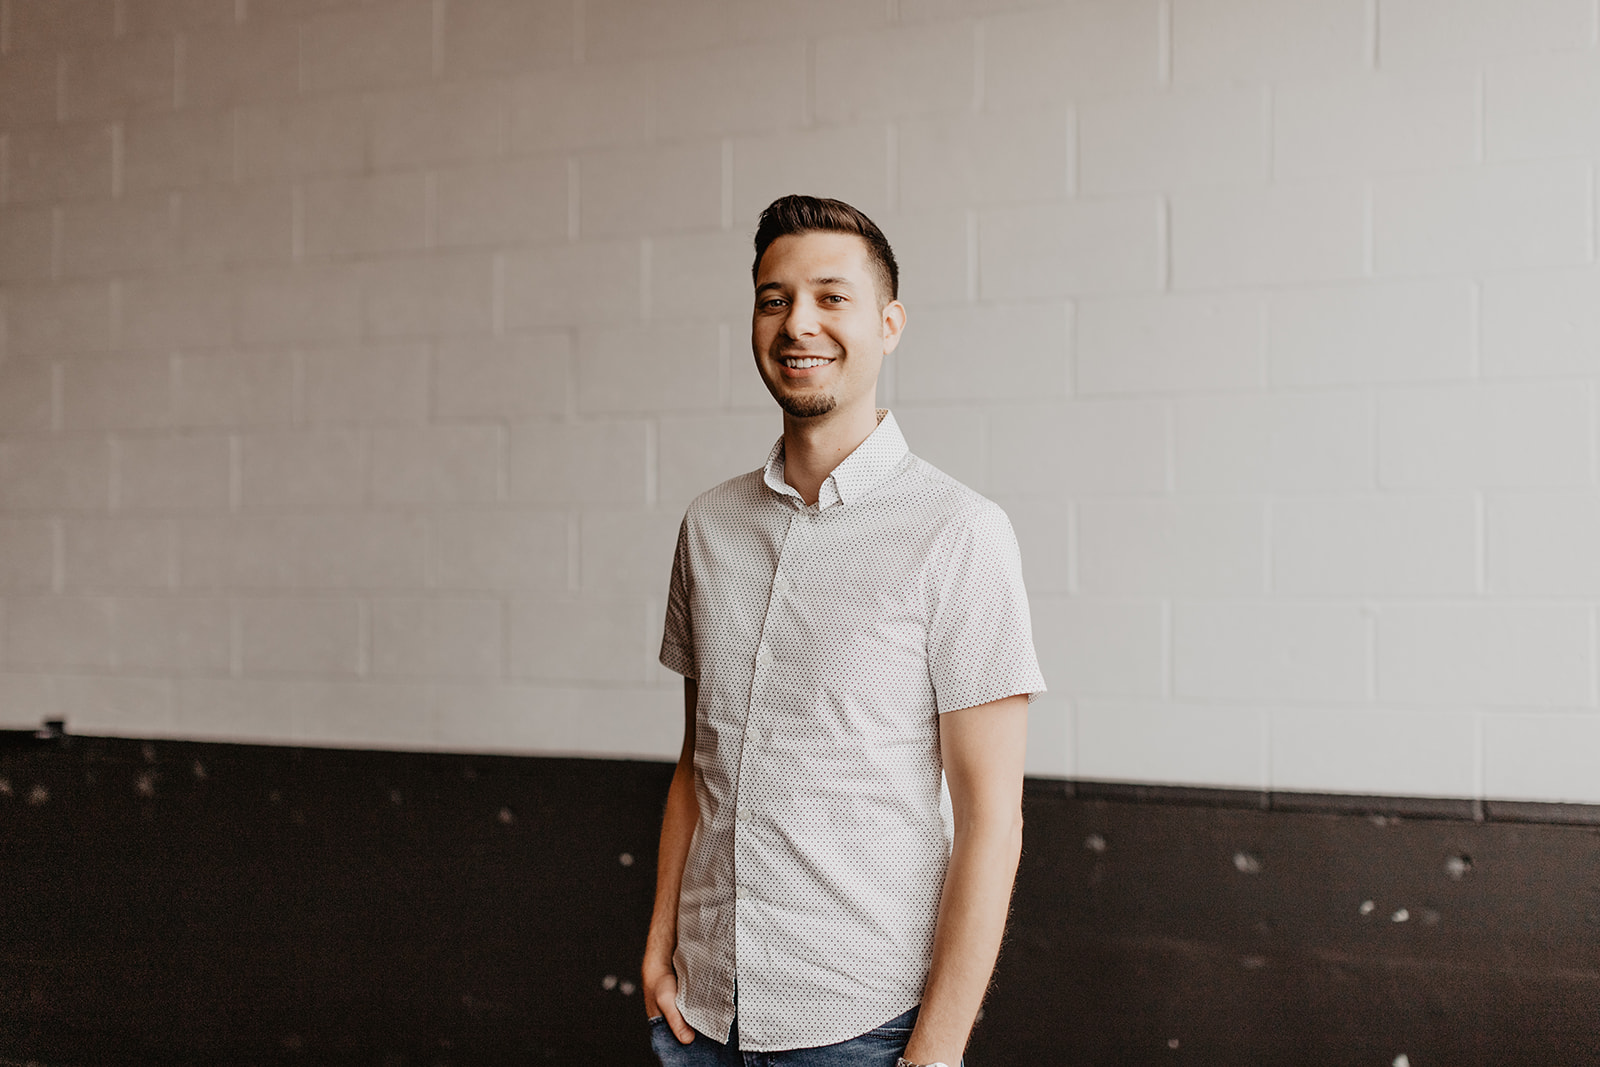
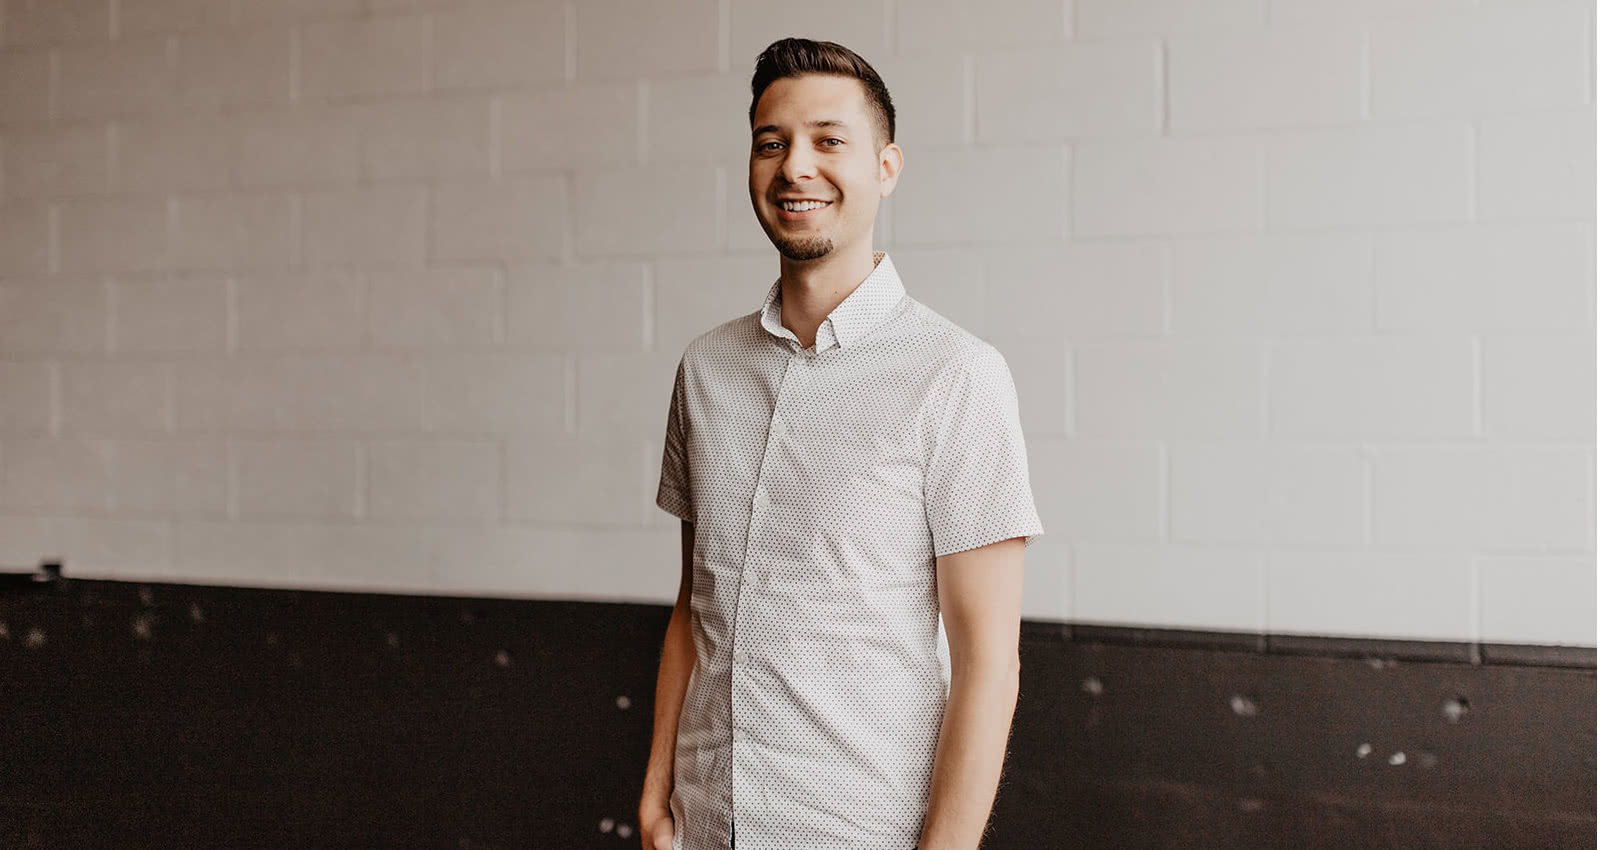
Updated Images

diff --git a/style.css b/style.css
@@ -578,7 +578,6 @@ h6 {
 .image-separator-right .inner-container .image-separator-bg img {
   width: 100%;
   height: auto;
-  max-height: 850px;
 }
 
 .image-separator-bg {
@@ -731,7 +730,7 @@ h6 {
 
 .select-work .select-work-featured-img img {
   width: 100%;
-  max-height: 1000px;
+  height: auto;
 }
 
 .work .inner-container .outline-heading-large {
